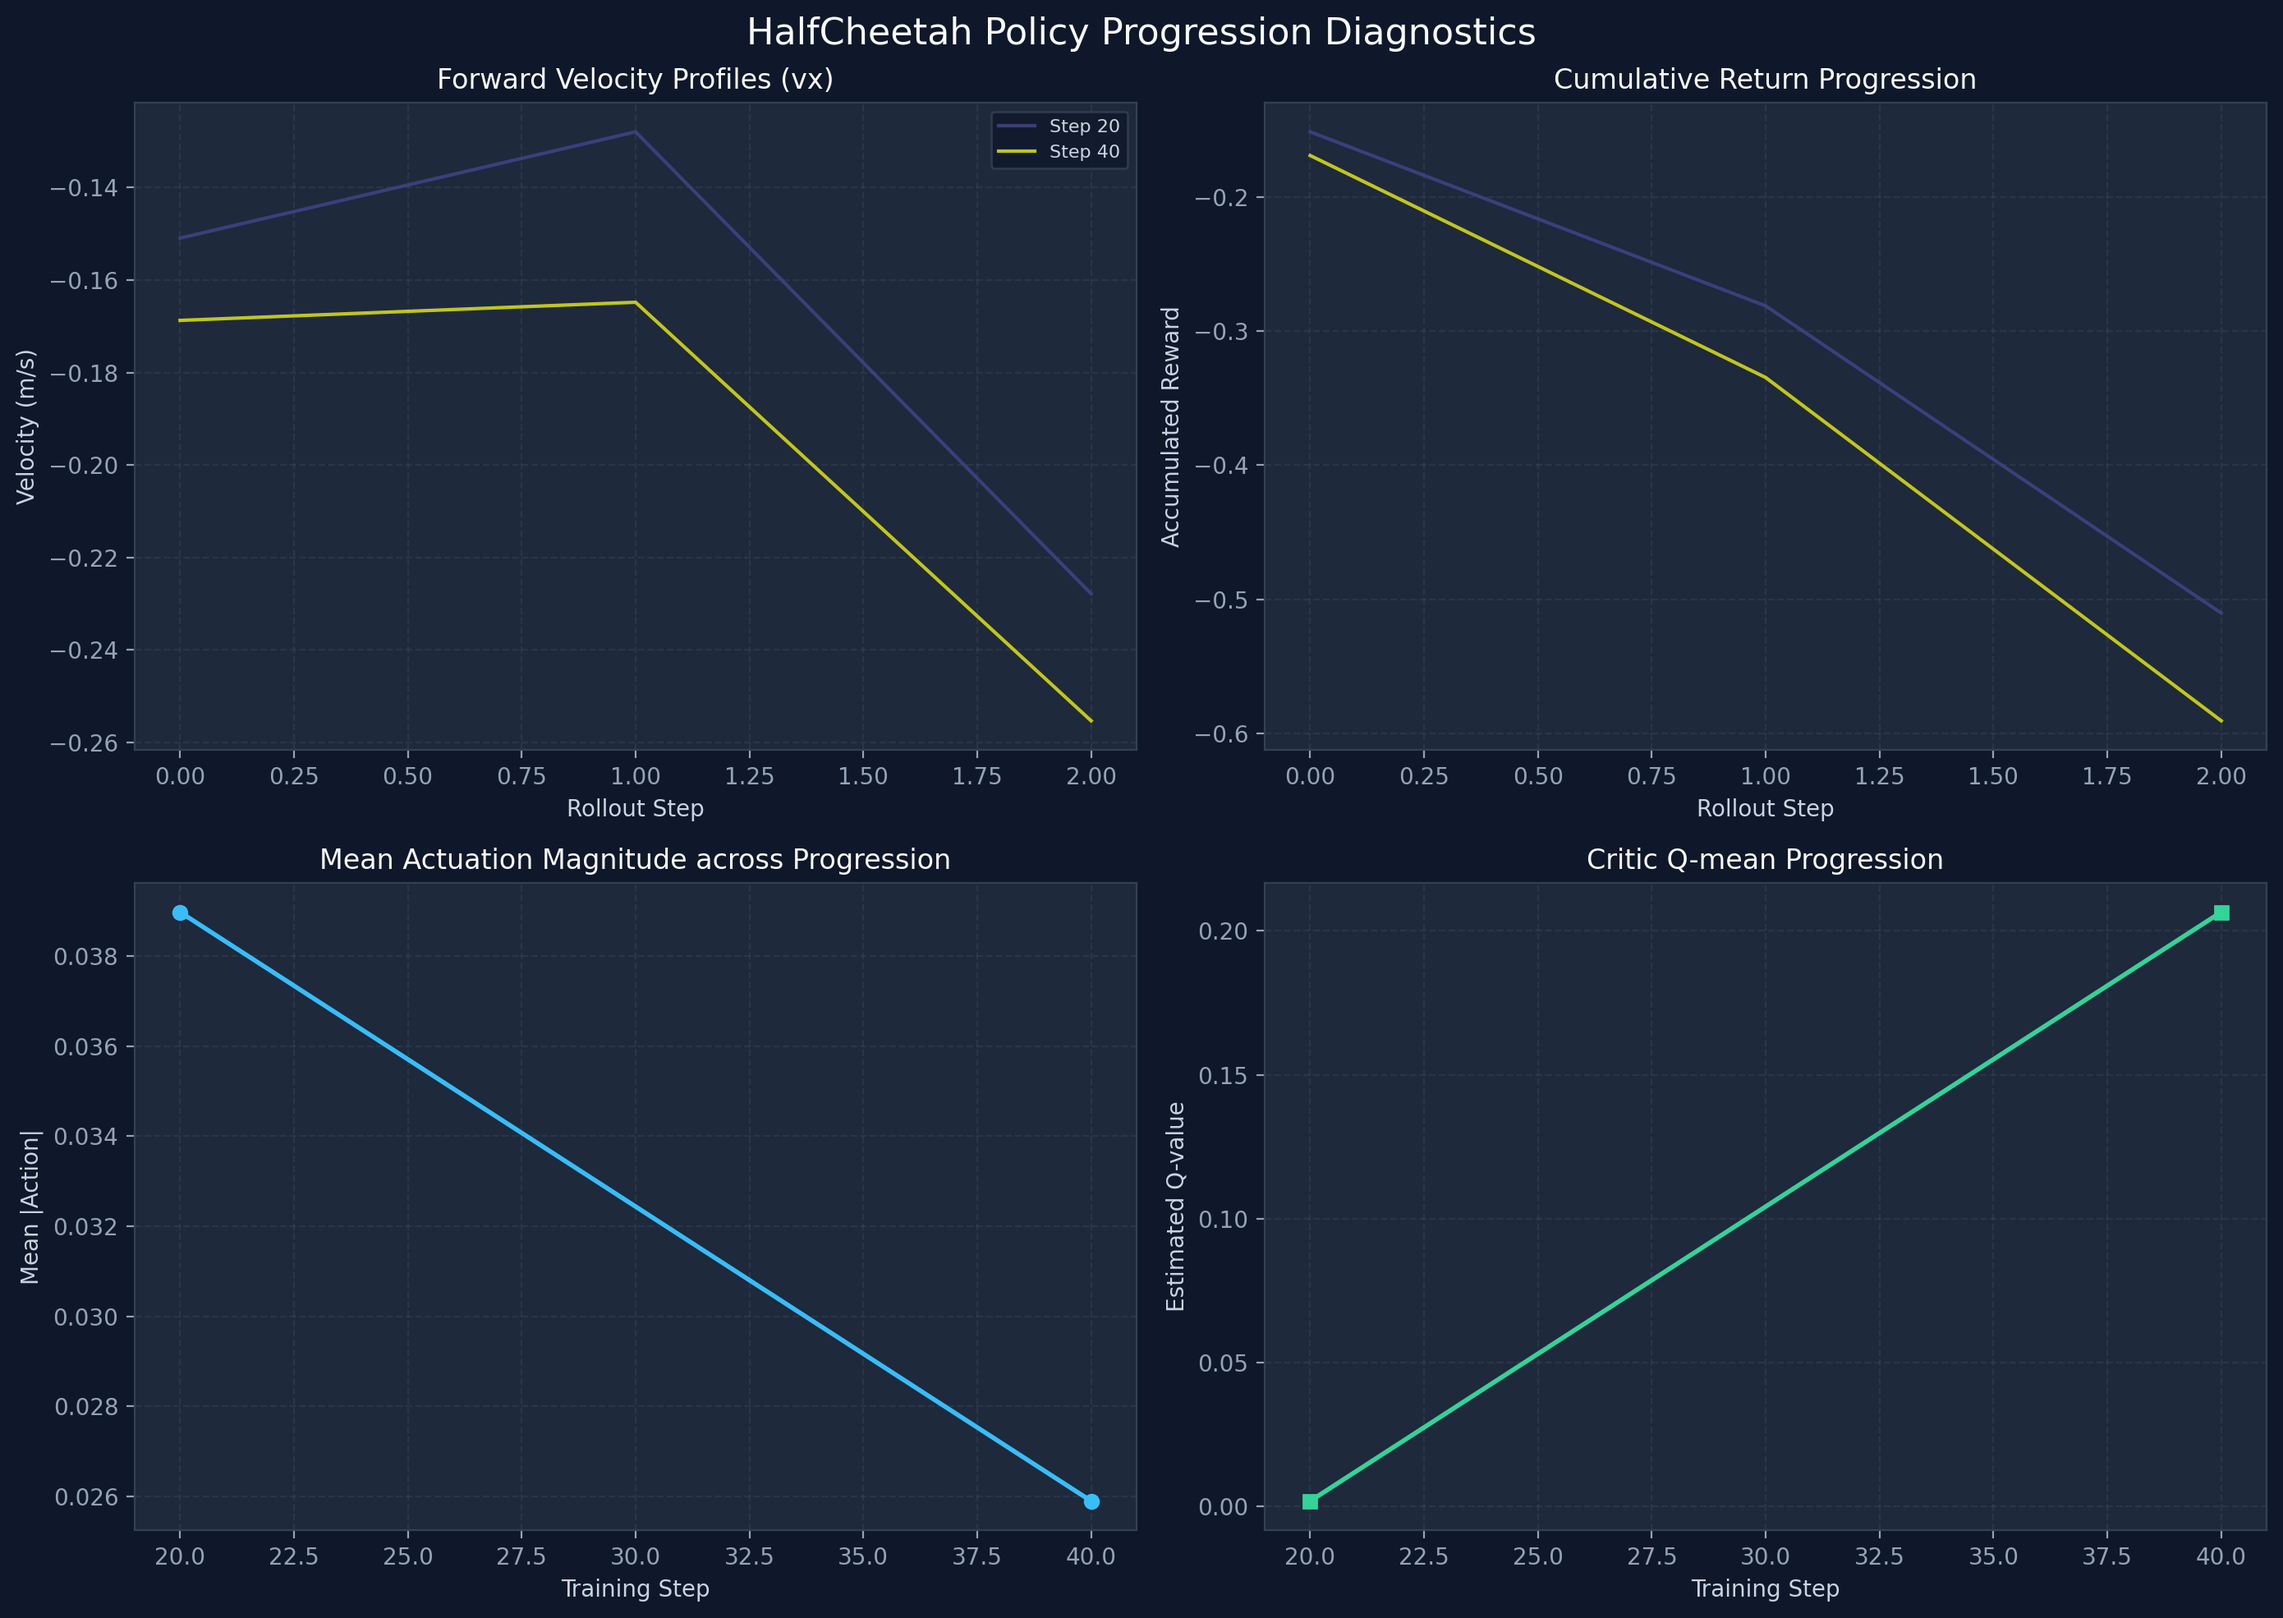
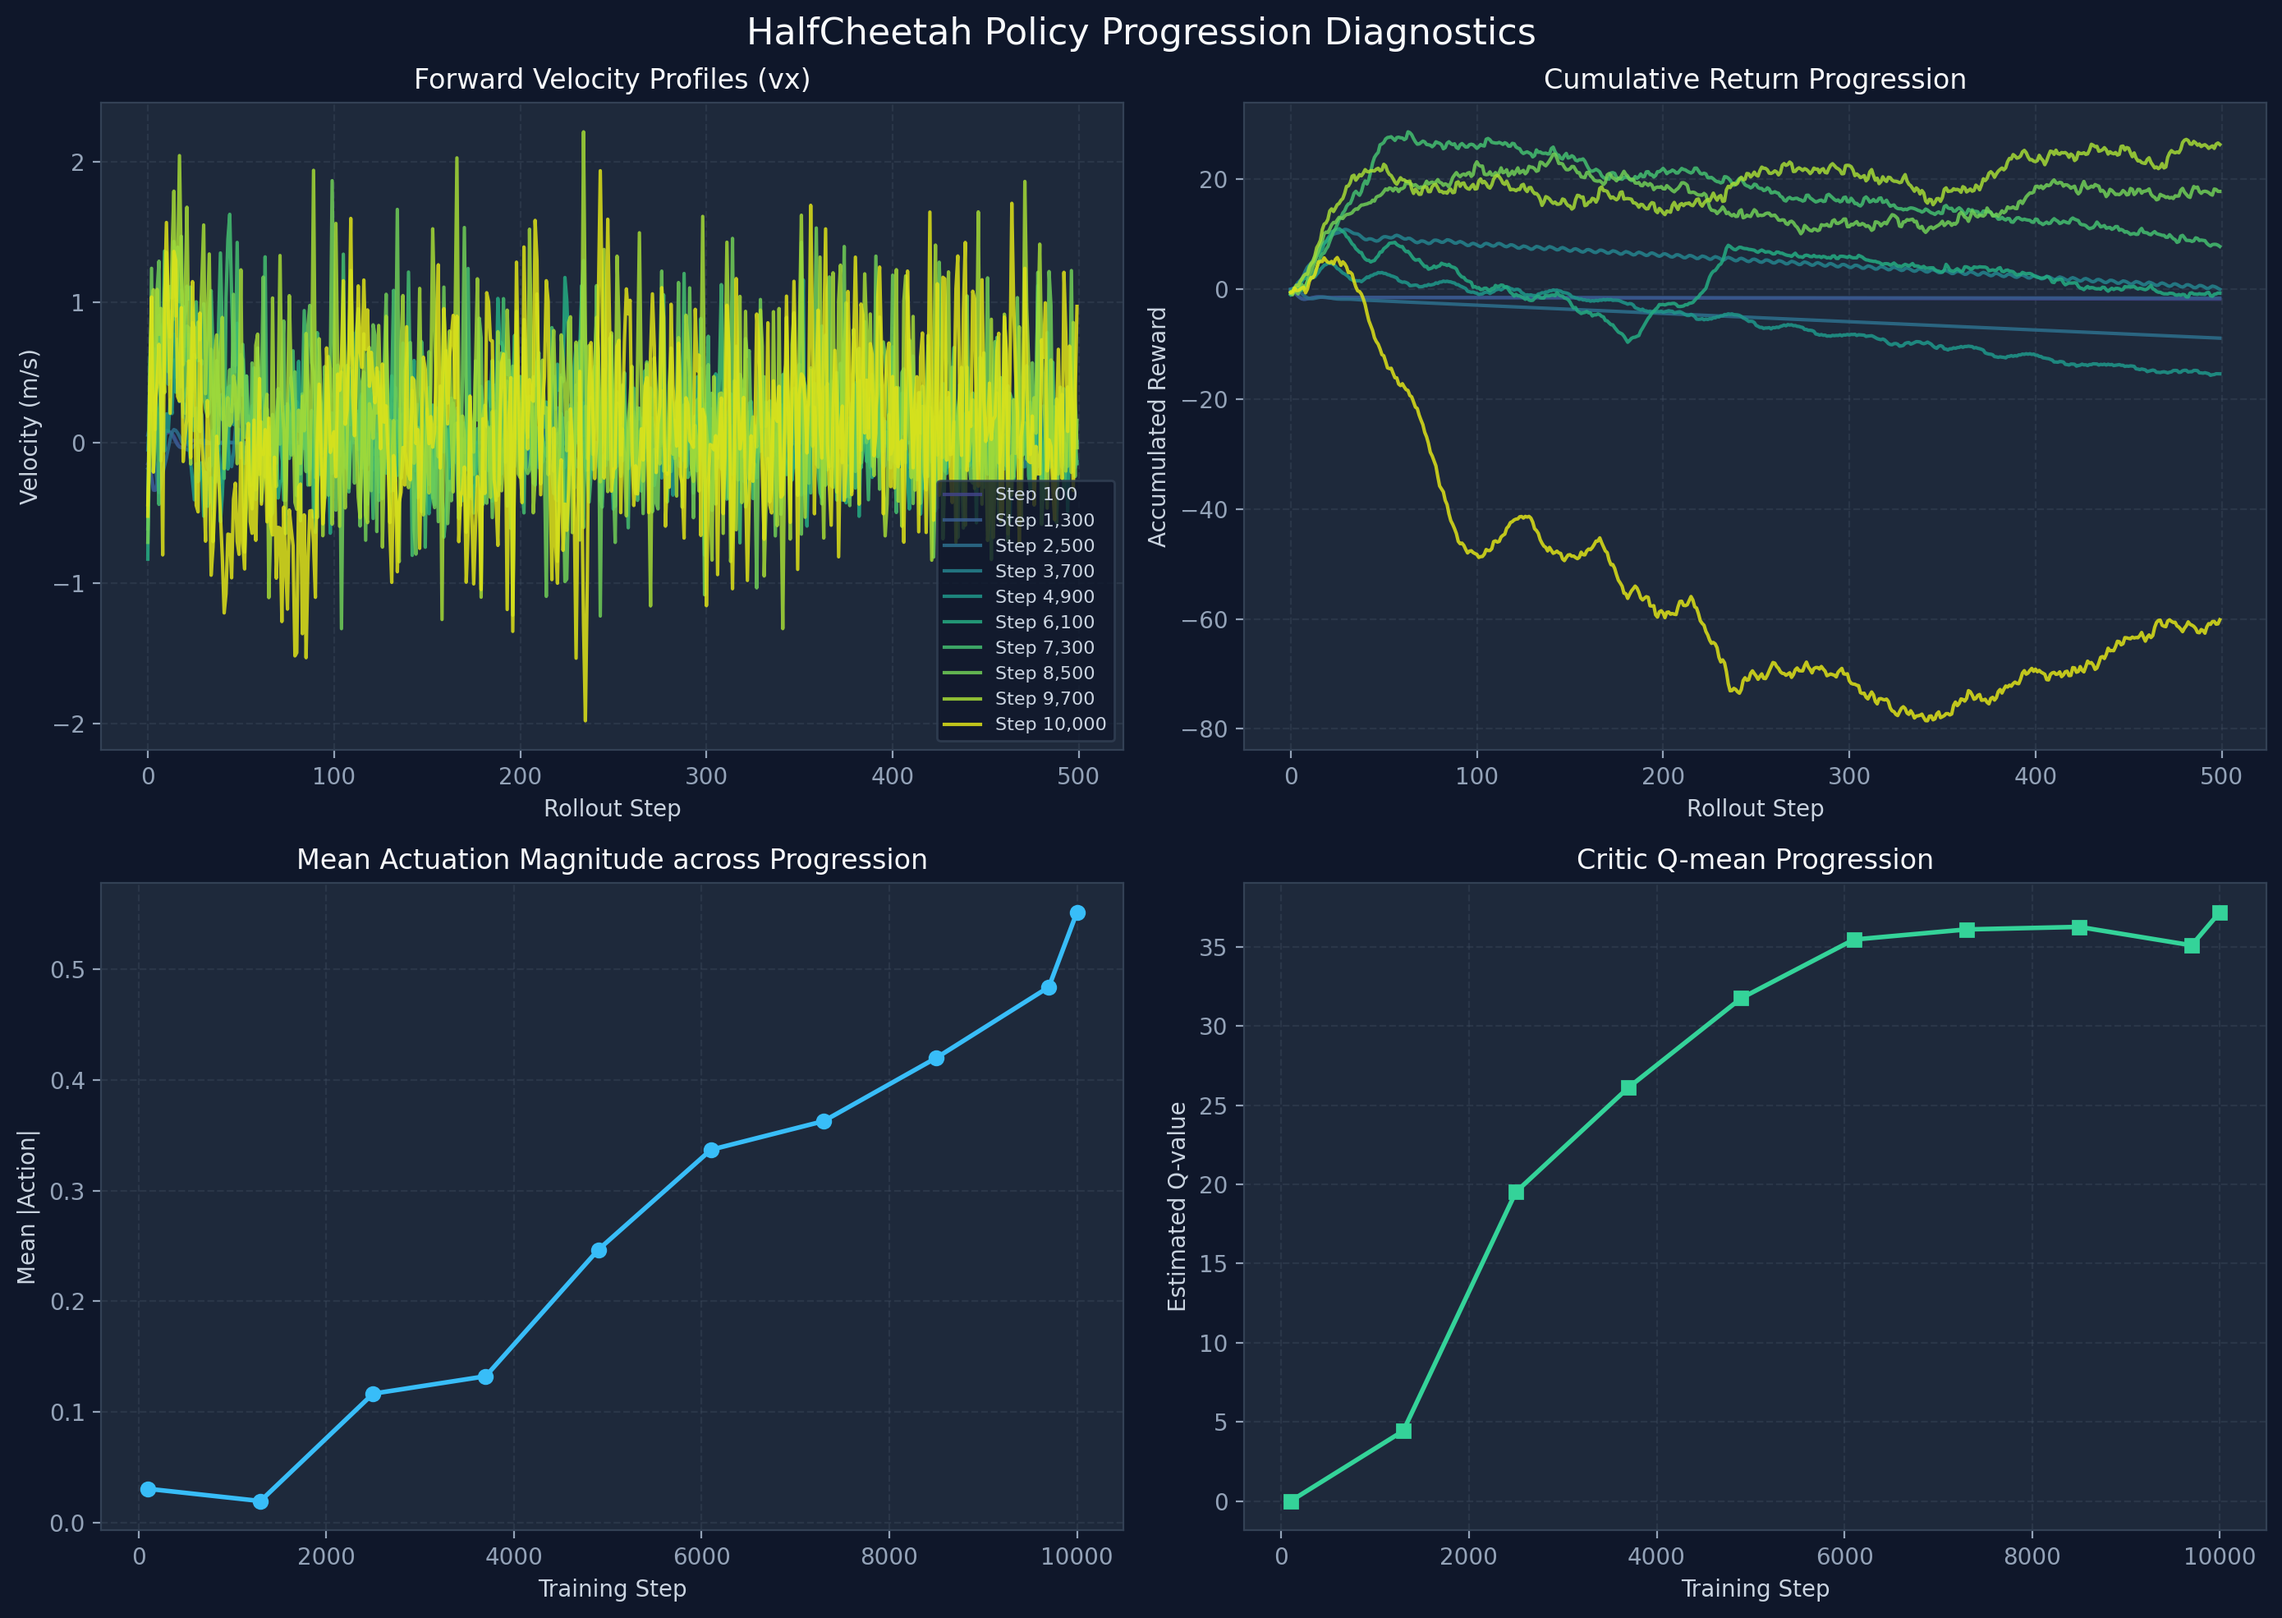
feat: complete progression pipeline assembly and Kaggle grid video generation

diff --git a/scripts/generate_kaggle_grid_videos.py b/scripts/generate_kaggle_grid_videos.py
@@ -1,0 +1,211 @@
+"""Generate 6 individual checkpoint videos and a synchronized 2x3 grid comparison from Kaggle run."""
+
+import argparse
+import os
+import sys
+from pathlib import Path
+from typing import List
+
+# Ensure project root is on sys.path
+sys.path.insert(0, os.path.abspath(os.path.join(os.path.dirname(__file__), "..")))
+
+import numpy as np
+import torch
+
+from src.tqc.envs import get_env_dims, make_env
+from src.tqc.logger import create_agent
+from src.tqc.visualize import (
+    rollout_checkpoint_with_telemetry,
+    save_video,
+    tile_grid_frames,
+)
+
+
+def generate_kaggle_videos(
+    run_dir: str = "runs/kaggle_halfcheetahv4_s42_20260910_002935",
+    output_dir: str = "videos/kaggle_smoke",
+    grid_output: str = "videos/kaggle_halfcheetah_6way_grid.mp4",
+    frames_per_video: int = 300,
+    fps: int = 30,
+) -> dict:
+    """Generate 6 checkpoint videos and a synchronized 2x3 grid comparison video.
+
+    Args:
+        run_dir: Directory containing downloaded Kaggle checkpoints.
+        output_dir: Target folder for individual video files.
+        grid_output: Target path for the 2x3 synchronized grid comparison MP4.
+        frames_per_video: Number of frames per episode rollout (default 300 = 10s at 30fps).
+        fps: Frames per second.
+
+    Returns:
+        Dictionary containing paths to all generated videos.
+    """
+    run_path = Path(run_dir).resolve()
+    out_path = Path(output_dir).resolve()
+    out_path.mkdir(parents=True, exist_ok=True)
+    os.makedirs(os.path.dirname(Path(grid_output).resolve()), exist_ok=True)
+
+    print("=" * 70)
+    print(" Generating 6 Videos & Synchronized 2x3 Grid from Kaggle Run")
+    print(f" Source Directory: {run_path}")
+    print(f" Video Output:    {out_path}")
+    print(f" Grid Video:      {grid_output}")
+    print("=" * 70)
+
+    # Initialize environment and agent
+    env_id = "HalfCheetah-v4"
+    temp_env = make_env(env_id)
+    state_dim, action_dim = get_env_dims(temp_env)
+    temp_env.close()
+
+    device = "cuda" if torch.cuda.is_available() else "cpu"
+    agent = create_agent("tqc", state_dim, action_dim, device=device, env_id=env_id)
+
+    # Define the 6 evaluation slots
+    slots = [
+        {
+            "name": "slot1_step0",
+            "file": run_path / "checkpoint_0.pt",
+            "label": "Step 0 (Random Baseline)",
+            "step": 0,
+            "seed": 42,
+        },
+        {
+            "name": "slot2_step50",
+            "file": run_path / "checkpoint_50.pt",
+            "label": "Step 50 Checkpoint",
+            "step": 50,
+            "seed": 42,
+        },
+        {
+            "name": "slot3_step100",
+            "file": run_path / "checkpoint_100.pt",
+            "label": "Step 100 Checkpoint",
+            "step": 100,
+            "seed": 42,
+        },
+        {
+            "name": "slot4_best_model_s42",
+            "file": run_path / "best_model.pt",
+            "label": "Best Model (Eval Seed 42)",
+            "step": 50,
+            "seed": 42,
+        },
+        {
+            "name": "slot5_best_model_s142",
+            "file": run_path / "best_model.pt",
+            "label": "Best Model (Eval Seed 142)",
+            "step": 50,
+            "seed": 142,
+        },
+        {
+            "name": "slot6_final_model",
+            "file": run_path / "final_model.pt",
+            "label": "Final Model (Step 100)",
+            "step": 100,
+            "seed": 42,
+        },
+    ]
+
+    all_video_frames: List[List[np.ndarray]] = []
+    generated_videos: List[str] = []
+
+    for i, slot in enumerate(slots, 1):
+        ckpt_file = slot["file"]
+        if not ckpt_file.is_file():
+            raise FileNotFoundError(f"Missing required checkpoint file: {ckpt_file}")
+
+        print(f"\n[{i}/6] Rolling out {slot['label']} ({slot['name']})...")
+        agent.load(str(ckpt_file))
+
+        telemetry = rollout_checkpoint_with_telemetry(
+            agent=agent,
+            env_id=env_id,
+            max_steps=frames_per_video,
+            seed=slot["seed"],
+            ckpt_idx=i,
+            total_ckpts=6,
+            step_num=slot["step"],
+            total_steps=100,
+            overlay=True,
+            fps=fps,
+            render=True,
+        )
+
+        frames = telemetry["frames"]
+        all_video_frames.append(frames)
+
+        video_file = out_path / f"{slot['name']}.mp4"
+        save_video(frames, str(video_file), fps=fps)
+        generated_videos.append(str(video_file))
+
+        ep_return = sum(telemetry["rewards"])
+        mean_vx = np.mean(telemetry["velocities"]) if telemetry["velocities"] else 0.0
+        print(f" -> Saved: {video_file.name} | Return: {ep_return:.2f} | Speed: {mean_vx:.2f} m/s")
+
+    # Assemble the synchronized 2x3 comparison grid
+    print(f"\n[Grid Synthesis] Assembling 6 video streams into synchronized 2x3 grid...")
+    grid_frames = tile_grid_frames(all_video_frames, rows=2, cols=3, border_px=3)
+    save_video(grid_frames, grid_output, fps=fps)
+    print(f" -> Saved 2x3 Grid Comparison Video: {grid_output}")
+
+    print("\n" + "=" * 70)
+    print(" Generation Completed Successfully!")
+    print(f" - 6 Individual Videos: {out_path}")
+    print(f" - Synchronized 2x3 Grid: {grid_output}")
+    print("=" * 70)
+
+    return {
+        "videos": generated_videos,
+        "grid_video": str(Path(grid_output).resolve()),
+    }
+
+
+def main():
+    parser = argparse.ArgumentParser(
+        description="Generate 6 individual videos and a synchronized 2x3 grid comparison from Kaggle run."
+    )
+    parser.add_argument(
+        "--run-dir",
+        type=str,
+        default="runs/kaggle_halfcheetahv4_s42_20260910_002935",
+        help="Path to downloaded Kaggle run directory",
+    )
+    parser.add_argument(
+        "--output-dir",
+        type=str,
+        default="videos/kaggle_smoke",
+        help="Directory to save individual videos",
+    )
+    parser.add_argument(
+        "--grid-output",
+        type=str,
+        default="videos/kaggle_halfcheetah_6way_grid.mp4",
+        help="Path for final synchronized 2x3 grid MP4",
+    )
+    parser.add_argument(
+        "--frames",
+        type=int,
+        default=300,
+        help="Frames per video (default: 300 = 10s at 30 fps)",
+    )
+    parser.add_argument(
+        "--fps",
+        type=int,
+        default=30,
+        help="Playback FPS (default: 30)",
+    )
+
+    args = parser.parse_args()
+
+    generate_kaggle_videos(
+        run_dir=args.run_dir,
+        output_dir=args.output_dir,
+        grid_output=args.grid_output,
+        frames_per_video=args.frames,
+        fps=args.fps,
+    )
+
+
+if __name__ == "__main__":
+    main()

diff --git a/src/tqc/visualize.py b/src/tqc/visualize.py
@@ -4,6 +4,7 @@ import os
 import time
 from typing import Any, Dict, List, Optional, Tuple, Union
 import gymnasium as gym
+import imageio
 import imageio.v3 as iio
 import matplotlib.pyplot as plt
 import numpy as np
@@ -253,29 +254,34 @@ def stitch_video_files(
 ) -> str:
     """Concatenate multiple video files sequentially into a single master video.
 
-    Streams frames one video at a time to keep memory usage minimal.
+    Streams frames one frame at a time to keep memory usage strictly bounded (O(1) frame in RAM).
     """
     os.makedirs(os.path.dirname(os.path.abspath(output_path)), exist_ok=True)
     if not input_paths:
         raise ValueError("No input video paths provided to stitch.")
 
-    all_frames: List[np.ndarray] = []
-    for path in input_paths:
-        if not os.path.isfile(path):
-            continue
-        try:
-            frames = iio.imread(path)
-            # Sample frames if timelapse is requested
-            if timelapse_factor > 1:
-                frames = frames[::timelapse_factor]
-            all_frames.extend(frames)
-        except Exception as e:
-            print(f"Warning: Failed to read video {path}: {e}")
+    writer = imageio.get_writer(output_path, fps=fps)
+    frames_written = 0
+    try:
+        for path in input_paths:
+            if not os.path.isfile(path):
+                continue
+            try:
+                reader = imageio.get_reader(path)
+                for frame_idx, frame in enumerate(reader):
+                    if timelapse_factor <= 1 or (frame_idx % timelapse_factor == 0):
+                        writer.append_data(frame)
+                        frames_written += 1
+                reader.close()
+            except Exception as e:
+                print(f"Warning: Failed to read video {path}: {e}")
+    finally:
+        writer.close()
 
-    if not all_frames:
+    if frames_written == 0:
         raise RuntimeError("No frames loaded from any input videos.")
 
-    return save_video(all_frames, output_path, fps=fps)
+    return output_path
 
 
 def plot_progression_diagnostics(
